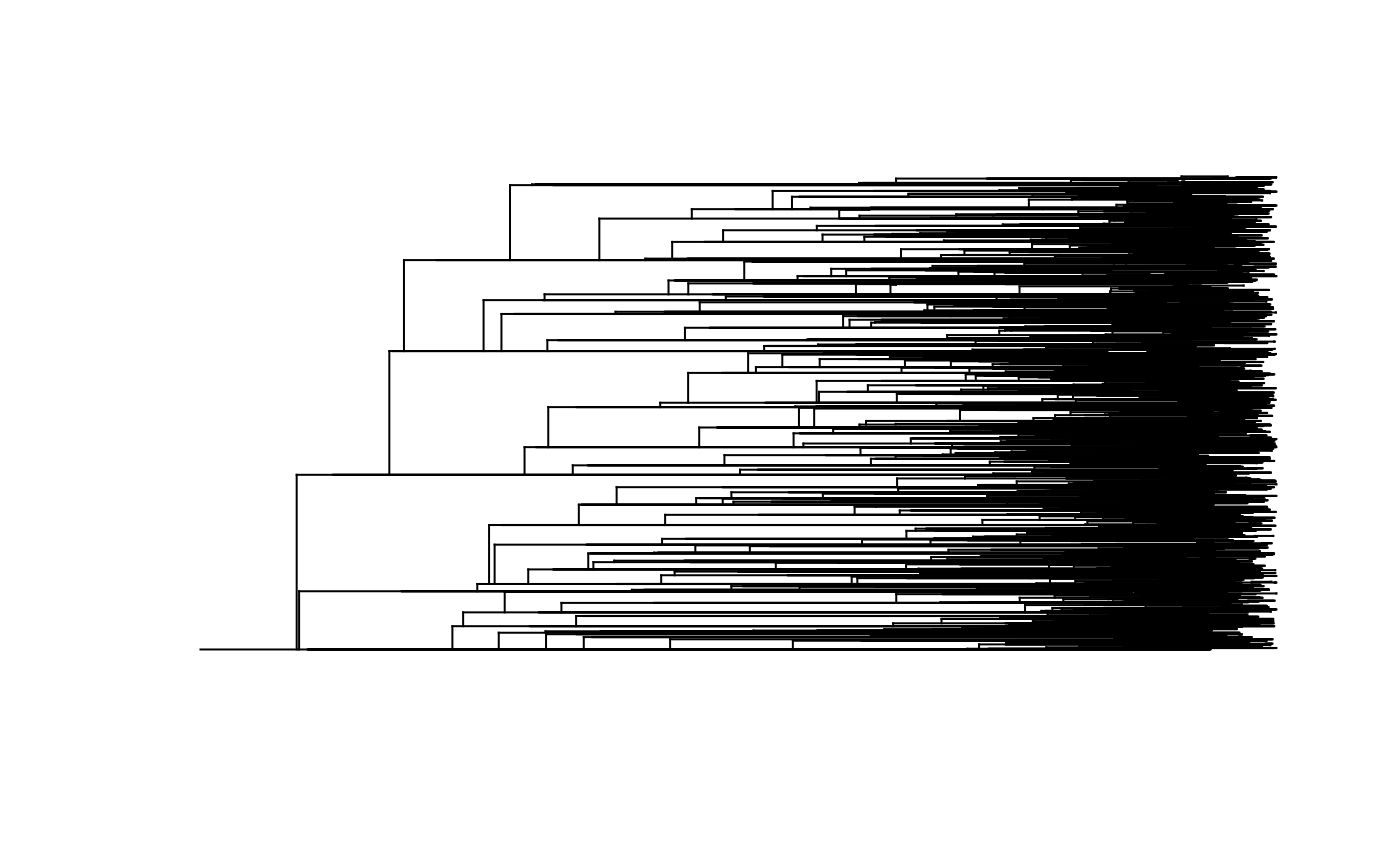
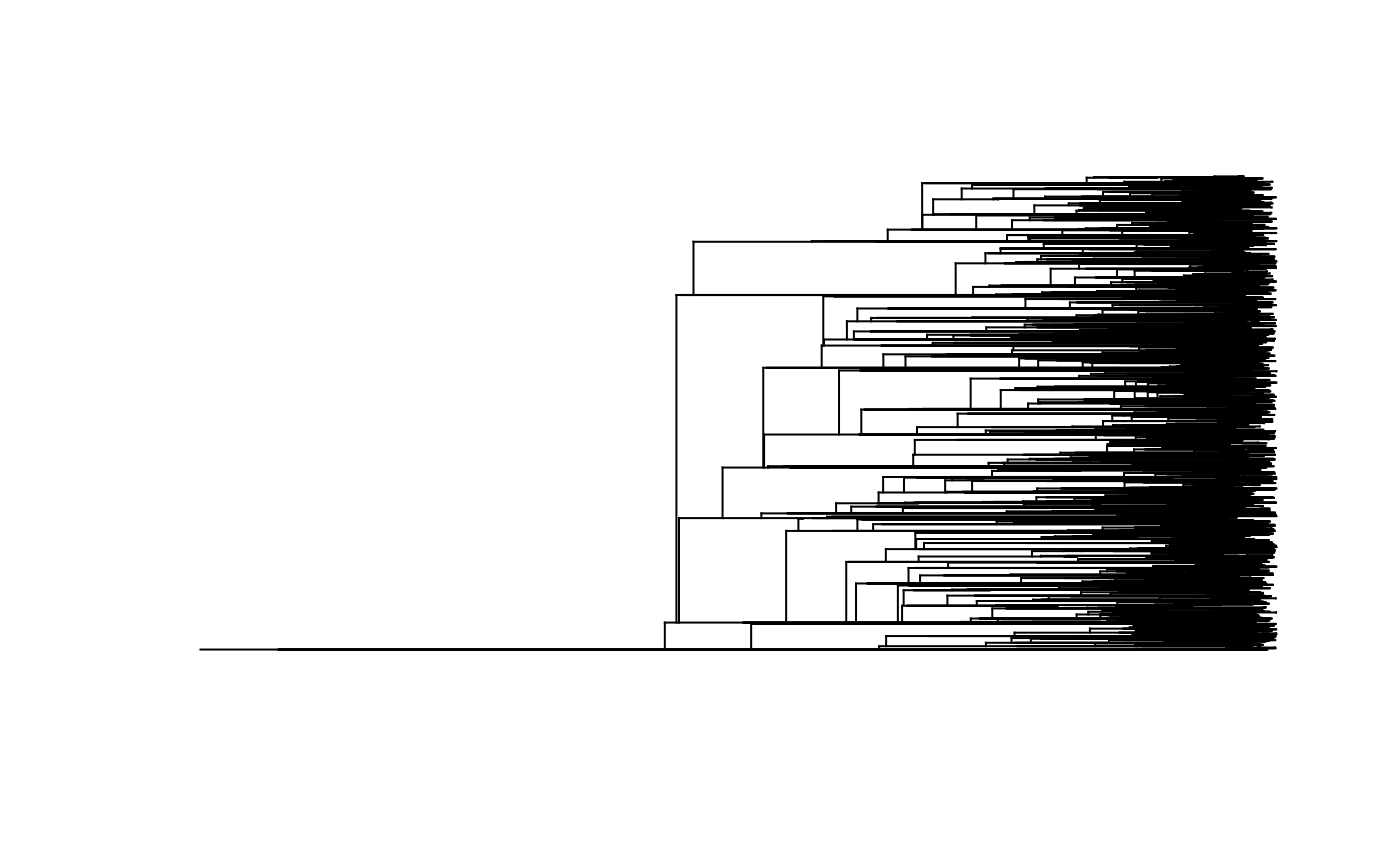
rendered

Changed region(s): [[0.215, 0.1873, 0.9214, 0.7491], [0.1843, 0.6867, 0.215, 0.7491], [0.2764, 0.4058, 0.3071, 0.437]]

diff --git a/docs/articles/Baruwal_R_Package_Tutorial.html b/docs/articles/Baruwal_R_Package_Tutorial.html
@@ -87,11 +87,11 @@
 <p>You might need to install these packages:</p>
 <div class="sourceCode" id="cb1"><pre class="downlit sourceCode r">
 <code class="sourceCode R"><span class="fu"><a href="https://rdrr.io/r/utils/install.packages.html" class="external-link">install.packages</a></span><span class="op">(</span><span class="st">"tidyverse"</span><span class="op">)</span></code></pre></div>
-<pre><code><span class="co">## Installing package into '/tmp/RtmpUgYTjQ/temp_libpath663776a2c40a'</span>
+<pre><code><span class="co">## Installing package into '/tmp/RtmpUgYTjQ/temp_libpath6637505c27da'</span>
 <span class="co">## (as 'lib' is unspecified)</span></code></pre>
 <div class="sourceCode" id="cb3"><pre class="downlit sourceCode r">
 <code class="sourceCode R"><span class="fu"><a href="https://rdrr.io/r/utils/install.packages.html" class="external-link">install.packages</a></span><span class="op">(</span><span class="st">"ggplot2"</span><span class="op">)</span></code></pre></div>
-<pre><code><span class="co">## Installing package into '/tmp/RtmpUgYTjQ/temp_libpath663776a2c40a'</span>
+<pre><code><span class="co">## Installing package into '/tmp/RtmpUgYTjQ/temp_libpath6637505c27da'</span>
 <span class="co">## (as 'lib' is unspecified)</span></code></pre>
 <div class="sourceCode" id="cb5"><pre class="downlit sourceCode r">
 <code class="sourceCode R"><span class="kw"><a href="https://rdrr.io/r/base/library.html" class="external-link">library</a></span><span class="op">(</span><span class="va"><a href="https://tidyverse.tidyverse.org" class="external-link">tidyverse</a></span><span class="op">)</span></code></pre></div>
@@ -107,7 +107,7 @@
 <code class="sourceCode R"><span class="kw"><a href="https://rdrr.io/r/base/library.html" class="external-link">library</a></span><span class="op">(</span><span class="va"><a href="https://ggplot2.tidyverse.org" class="external-link">ggplot2</a></span><span class="op">)</span></code></pre></div>
 <div class="sourceCode" id="cb10"><pre class="downlit sourceCode r">
 <code class="sourceCode R"><span class="fu"><a href="https://rdrr.io/r/utils/install.packages.html" class="external-link">install.packages</a></span><span class="op">(</span><span class="st">"devtools"</span><span class="op">)</span></code></pre></div>
-<pre><code><span class="co">## Installing package into '/tmp/RtmpUgYTjQ/temp_libpath663776a2c40a'</span>
+<pre><code><span class="co">## Installing package into '/tmp/RtmpUgYTjQ/temp_libpath6637505c27da'</span>
 <span class="co">## (as 'lib' is unspecified)</span></code></pre>
 <div class="sourceCode" id="cb12"><pre class="downlit sourceCode r">
 <code class="sourceCode R"><span class="kw"><a href="https://rdrr.io/r/base/library.html" class="external-link">library</a></span><span class="op">(</span><span class="va"><a href="https://devtools.r-lib.org/" class="external-link">devtools</a></span><span class="op">)</span></code></pre></div>
@@ -115,7 +115,7 @@
 <p>You need to install FossilSim R package for this package to run. # FossilSim is used for simulating trees directly from a fossilized-birth death process using the sim.fbd function.</p>
 <div class="sourceCode" id="cb14"><pre class="downlit sourceCode r">
 <code class="sourceCode R"><span class="fu"><a href="https://rdrr.io/r/utils/install.packages.html" class="external-link">install.packages</a></span><span class="op">(</span><span class="st">"FossilSim"</span><span class="op">)</span></code></pre></div>
-<pre><code><span class="co">## Installing package into '/tmp/RtmpUgYTjQ/temp_libpath663776a2c40a'</span>
+<pre><code><span class="co">## Installing package into '/tmp/RtmpUgYTjQ/temp_libpath6637505c27da'</span>
 <span class="co">## (as 'lib' is unspecified)</span></code></pre>
 <div class="sourceCode" id="cb16"><pre class="downlit sourceCode r">
 <code class="sourceCode R"><span class="kw"><a href="https://rdrr.io/r/base/library.html" class="external-link">library</a></span><span class="op">(</span><span class="va">FossilSim</span><span class="op">)</span></code></pre></div>
@@ -125,9 +125,9 @@
 <pre><code><span class="co">## Using github PAT from envvar GITHUB_PAT</span></code></pre>
 <pre><code><span class="co">## Downloading GitHub repo simranbaru/R_Package_Baruwal@HEAD</span></code></pre>
 <pre><code>##   
-   checking for file ‘/tmp/RtmpL1XQbC/remotes7a7444584a62/simranbaru-R_package_Baruwal-26d5d0a/DESCRIPTION’ ...
+   checking for file ‘/tmp/RtmpGHIaVR/remotes7d1a310ef26c/simranbaru-R_package_Baruwal-7bc9f6b/DESCRIPTION’ ...
   
- [32m✓ [39m   [38;5;247mchecking for file ‘/tmp/RtmpL1XQbC/remotes7a7444584a62/simranbaru-R_package_Baruwal-26d5d0a/DESCRIPTION’ [39m [36m [39m
+ [32m✓ [39m   [38;5;247mchecking for file ‘/tmp/RtmpGHIaVR/remotes7d1a310ef26c/simranbaru-R_package_Baruwal-7bc9f6b/DESCRIPTION’ [39m [36m [39m
 ## 
   
  [38;5;247m─ [39m [38;5;247m   [39m [38;5;247mpreparing ‘BaruwalRPackage’: [39m [36m [39m
@@ -150,7 +150,7 @@
   
    
 ## </code></pre>
-<pre><code><span class="co">## Installing package into '/tmp/RtmpUgYTjQ/temp_libpath663776a2c40a'</span>
+<pre><code><span class="co">## Installing package into '/tmp/RtmpUgYTjQ/temp_libpath6637505c27da'</span>
 <span class="co">## (as 'lib' is unspecified)</span></code></pre>
 <div class="sourceCode" id="cb22"><pre class="downlit sourceCode r">
 <code class="sourceCode R"><span class="kw"><a href="https://rdrr.io/r/base/library.html" class="external-link">library</a></span><span class="op">(</span><span class="va">BaruwalRPackage</span><span class="op">)</span>
@@ -221,109 +221,46 @@
 <span class="op">}</span></code></pre></div>
 <pre><code><span class="co">## [[1]]</span>
 <span class="co">## </span>
-<span class="co">## Phylogenetic tree with 2752 tips and 2751 internal nodes.</span>
+<span class="co">## Phylogenetic tree with 2985 tips and 2984 internal nodes.</span>
 <span class="co">## </span>
 <span class="co">## Tip labels:</span>
-<span class="co">##   t371_4, t1002_1, t846_2, t651_3, t722_2, t479_1, ...</span>
+<span class="co">##   t1062_1, t601_5, t180_1, t161_1, t52_4, t823_3, ...</span>
 <span class="co">## </span>
 <span class="co">## Rooted; includes branch lengths.</span>
 <span class="co">## </span>
 <span class="co">## [[1]]</span>
 <span class="co">## </span>
-<span class="co">## Phylogenetic tree with 1355 tips and 1354 internal nodes.</span>
+<span class="co">## Phylogenetic tree with 1286 tips and 1285 internal nodes.</span>
 <span class="co">## </span>
 <span class="co">## Tip labels:</span>
-<span class="co">##   t644_2, t808_4, t264_1, t228_2, t257_1, t355_2, ...</span>
+<span class="co">##   t588_1, t574_1, t958_1, t164_1, t505_1, t183_1, ...</span>
 <span class="co">## </span>
 <span class="co">## Rooted; includes branch lengths.</span>
 <span class="co">## </span>
 <span class="co">## [[1]]</span>
 <span class="co">## </span>
-<span class="co">## Phylogenetic tree with 378 tips and 377 internal nodes.</span>
+<span class="co">## Phylogenetic tree with 453 tips and 452 internal nodes.</span>
 <span class="co">## </span>
 <span class="co">## Tip labels:</span>
-<span class="co">##   t680_1, t460_1, t191_1, t440_1, t454_1, t214_1, ...</span>
+<span class="co">##   t555_1, t704_1, t487_1, t655_1, t170_1, t271_1, ...</span>
 <span class="co">## </span>
 <span class="co">## Rooted; includes branch lengths.</span>
 <span class="co">## </span>
 <span class="co">## [[1]]</span>
 <span class="co">## </span>
-<span class="co">## Phylogenetic tree with 126 tips and 125 internal nodes.</span>
+<span class="co">## Phylogenetic tree with 150 tips and 149 internal nodes.</span>
 <span class="co">## </span>
 <span class="co">## Tip labels:</span>
-<span class="co">##   t961_1, t187_1, t184_1, t5_1, t621_1, t889_1, ...</span>
+<span class="co">##   t965_1, t337_1, t193_1, t571_1, t334_1, t867_1, ...</span>
 <span class="co">## </span>
 <span class="co">## Rooted; includes branch lengths.</span>
 <span class="co">## </span>
 <span class="co">## [[1]]</span>
 <span class="co">## </span>
-<span class="co">## Phylogenetic tree with 23 tips and 22 internal nodes.</span>
+<span class="co">## Phylogenetic tree with 26 tips and 25 internal nodes.</span>
 <span class="co">## </span>
 <span class="co">## Tip labels:</span>
-<span class="co">##   t591_1, t442_1, t495_1, t737_1, t921_1, t447_1, ...</span>
-<span class="co">## </span>
-<span class="co">## Rooted; includes branch lengths.</span>
-<span class="co">## </span>
-<span class="co">## [[1]]</span>
-<span class="co">## </span>
-<span class="co">## Phylogenetic tree with 10 tips and 9 internal nodes.</span>
-<span class="co">## </span>
-<span class="co">## Tip labels:</span>
-<span class="co">##   t789_1, t642_1, t940_1, t311_1, t409_1, t240_1, ...</span>
-<span class="co">## </span>
-<span class="co">## Rooted; includes branch lengths.</span>
-<span class="co">## </span>
-<span class="co">## [[1]]</span>
-<span class="co">## </span>
-<span class="co">## Phylogenetic tree with 14 tips and 13 internal nodes.</span>
-<span class="co">## </span>
-<span class="co">## Tip labels:</span>
-<span class="co">##   t990_1, t851_1, t653_1, t465_1, t880_1, t29_1, ...</span>
-<span class="co">## </span>
-<span class="co">## Rooted; includes branch lengths.</span>
-<span class="co">## </span>
-<span class="co">## [[1]]</span>
-<span class="co">## </span>
-<span class="co">## Phylogenetic tree with 12 tips and 11 internal nodes.</span>
-<span class="co">## </span>
-<span class="co">## Tip labels:</span>
-<span class="co">##   t501_1, t681_1, t131_1, t957_1, t690_1, t555_1, ...</span>
-<span class="co">## </span>
-<span class="co">## Rooted; includes branch lengths.</span>
-<span class="co">## </span>
-<span class="co">## [[1]]</span>
-<span class="co">## </span>
-<span class="co">## Phylogenetic tree with 10 tips and 9 internal nodes.</span>
-<span class="co">## </span>
-<span class="co">## Tip labels:</span>
-<span class="co">##   t27_1, t126_1, t911_1, t1_1, t837_1, t637_1, ...</span>
-<span class="co">## </span>
-<span class="co">## Rooted; includes branch lengths.</span>
-<span class="co">## </span>
-<span class="co">## [[1]]</span>
-<span class="co">## </span>
-<span class="co">## Phylogenetic tree with 15 tips and 14 internal nodes.</span>
-<span class="co">## </span>
-<span class="co">## Tip labels:</span>
-<span class="co">##   t443_1, t413_1, t902_1, t614_1, t664_1, t191_1, ...</span>
-<span class="co">## </span>
-<span class="co">## Rooted; includes branch lengths.</span>
-<span class="co">## </span>
-<span class="co">## [[1]]</span>
-<span class="co">## </span>
-<span class="co">## Phylogenetic tree with 10 tips and 9 internal nodes.</span>
-<span class="co">## </span>
-<span class="co">## Tip labels:</span>
-<span class="co">##   t884_1, t557_1, t681_1, t310_1, t185_1, t686_1, ...</span>
-<span class="co">## </span>
-<span class="co">## Rooted; includes branch lengths.</span>
-<span class="co">## </span>
-<span class="co">## [[1]]</span>
-<span class="co">## </span>
-<span class="co">## Phylogenetic tree with 11 tips and 10 internal nodes.</span>
-<span class="co">## </span>
-<span class="co">## Tip labels:</span>
-<span class="co">##   t457_1, t369_1, t10_1, t7_1, t816_1, t471_1, ...</span>
+<span class="co">##   t26_1, t630_1, t651_1, t133_1, t172_1, t275_1, ...</span>
 <span class="co">## </span>
 <span class="co">## Rooted; includes branch lengths.</span>
 <span class="co">## </span>
@@ -332,52 +269,7 @@
 <span class="co">## Phylogenetic tree with 13 tips and 12 internal nodes.</span>
 <span class="co">## </span>
 <span class="co">## Tip labels:</span>
-<span class="co">##   t638_1, t970_1, t906_1, t984_1, t47_1, t835_1, ...</span>
-<span class="co">## </span>
-<span class="co">## Rooted; includes branch lengths.</span>
-<span class="co">## </span>
-<span class="co">## [[1]]</span>
-<span class="co">## </span>
-<span class="co">## Phylogenetic tree with 12 tips and 11 internal nodes.</span>
-<span class="co">## </span>
-<span class="co">## Tip labels:</span>
-<span class="co">##   t202_1, t753_1, t53_1, t78_1, t428_1, t116_1, ...</span>
-<span class="co">## </span>
-<span class="co">## Rooted; includes branch lengths.</span>
-<span class="co">## </span>
-<span class="co">## [[1]]</span>
-<span class="co">## </span>
-<span class="co">## Phylogenetic tree with 11 tips and 10 internal nodes.</span>
-<span class="co">## </span>
-<span class="co">## Tip labels:</span>
-<span class="co">##   t834_1, t677_1, t969_1, t178_1, t227_1, t16_1, ...</span>
-<span class="co">## </span>
-<span class="co">## Rooted; includes branch lengths.</span>
-<span class="co">## </span>
-<span class="co">## [[1]]</span>
-<span class="co">## </span>
-<span class="co">## Phylogenetic tree with 11 tips and 10 internal nodes.</span>
-<span class="co">## </span>
-<span class="co">## Tip labels:</span>
-<span class="co">##   t626_1, t1013_1, t731_1, t161_1, t899_1, t1075_1, ...</span>
-<span class="co">## </span>
-<span class="co">## Rooted; includes branch lengths.</span>
-<span class="co">## </span>
-<span class="co">## [[1]]</span>
-<span class="co">## </span>
-<span class="co">## Phylogenetic tree with 14 tips and 13 internal nodes.</span>
-<span class="co">## </span>
-<span class="co">## Tip labels:</span>
-<span class="co">##   t196_1, t520_1, t157_1, t765_1, t56_1, t175_1, ...</span>
-<span class="co">## </span>
-<span class="co">## Rooted; includes branch lengths.</span>
-<span class="co">## </span>
-<span class="co">## [[1]]</span>
-<span class="co">## </span>
-<span class="co">## Phylogenetic tree with 12 tips and 11 internal nodes.</span>
-<span class="co">## </span>
-<span class="co">## Tip labels:</span>
-<span class="co">##   t137_1, t181_1, t708_1, t437_1, t13_1, t867_1, ...</span>
+<span class="co">##   t12_1, t844_1, t590_1, t977_1, t784_1, t623_1, ...</span>
 <span class="co">## </span>
 <span class="co">## Rooted; includes branch lengths.</span>
 <span class="co">## </span>
@@ -386,7 +278,70 @@
 <span class="co">## Phylogenetic tree with 13 tips and 12 internal nodes.</span>
 <span class="co">## </span>
 <span class="co">## Tip labels:</span>
-<span class="co">##   t291_1, t787_1, t950_1, t241_1, t182_1, t1040_1, ...</span>
+<span class="co">##   t993_1, t56_1, t163_1, t140_1, t921_1, t516_1, ...</span>
+<span class="co">## </span>
+<span class="co">## Rooted; includes branch lengths.</span>
+<span class="co">## </span>
+<span class="co">## [[1]]</span>
+<span class="co">## </span>
+<span class="co">## Phylogenetic tree with 12 tips and 11 internal nodes.</span>
+<span class="co">## </span>
+<span class="co">## Tip labels:</span>
+<span class="co">##   t527_1, t380_1, t650_1, t549_1, t584_1, t551_1, ...</span>
+<span class="co">## </span>
+<span class="co">## Rooted; includes branch lengths.</span>
+<span class="co">## </span>
+<span class="co">## [[1]]</span>
+<span class="co">## </span>
+<span class="co">## Phylogenetic tree with 13 tips and 12 internal nodes.</span>
+<span class="co">## </span>
+<span class="co">## Tip labels:</span>
+<span class="co">##   t317_1, t779_1, t388_1, t691_1, t127_1, t185_1, ...</span>
+<span class="co">## </span>
+<span class="co">## Rooted; includes branch lengths.</span>
+<span class="co">## </span>
+<span class="co">## [[1]]</span>
+<span class="co">## </span>
+<span class="co">## Phylogenetic tree with 12 tips and 11 internal nodes.</span>
+<span class="co">## </span>
+<span class="co">## Tip labels:</span>
+<span class="co">##   t17_1, t826_1, t388_1, t878_1, t408_1, t327_1, ...</span>
+<span class="co">## </span>
+<span class="co">## Rooted; includes branch lengths.</span>
+<span class="co">## </span>
+<span class="co">## [[1]]</span>
+<span class="co">## </span>
+<span class="co">## Phylogenetic tree with 13 tips and 12 internal nodes.</span>
+<span class="co">## </span>
+<span class="co">## Tip labels:</span>
+<span class="co">##   t505_1, t214_1, t912_1, t241_1, t881_1, t325_1, ...</span>
+<span class="co">## </span>
+<span class="co">## Rooted; includes branch lengths.</span>
+<span class="co">## </span>
+<span class="co">## [[1]]</span>
+<span class="co">## </span>
+<span class="co">## Phylogenetic tree with 12 tips and 11 internal nodes.</span>
+<span class="co">## </span>
+<span class="co">## Tip labels:</span>
+<span class="co">##   t373_1, t993_1, t431_1, t513_1, t716_1, t43_1, ...</span>
+<span class="co">## </span>
+<span class="co">## Rooted; includes branch lengths.</span>
+<span class="co">## </span>
+<span class="co">## [[1]]</span>
+<span class="co">## </span>
+<span class="co">## Phylogenetic tree with 12 tips and 11 internal nodes.</span>
+<span class="co">## </span>
+<span class="co">## Tip labels:</span>
+<span class="co">##   t473_1, t765_1, t314_1, t753_1, t367_1, t764_1, ...</span>
+<span class="co">## </span>
+<span class="co">## Rooted; includes branch lengths.</span>
+<span class="co">## </span>
+<span class="co">## [[1]]</span>
+<span class="co">## </span>
+<span class="co">## Phylogenetic tree with 13 tips and 12 internal nodes.</span>
+<span class="co">## </span>
+<span class="co">## Tip labels:</span>
+<span class="co">##   t1037_1, t188_1, t520_1, t631_1, t498_1, t150_1, ...</span>
 <span class="co">## </span>
 <span class="co">## Rooted; includes branch lengths.</span>
 <span class="co">## </span>
@@ -395,7 +350,52 @@
 <span class="co">## Phylogenetic tree with 10 tips and 9 internal nodes.</span>
 <span class="co">## </span>
 <span class="co">## Tip labels:</span>
-<span class="co">##   t55_1, t256_1, t277_1, t237_1, t561_1, t894_1, ...</span>
+<span class="co">##   t899_1, t582_1, t886_1, t919_1, t975_1, t95_1, ...</span>
+<span class="co">## </span>
+<span class="co">## Rooted; includes branch lengths.</span>
+<span class="co">## </span>
+<span class="co">## [[1]]</span>
+<span class="co">## </span>
+<span class="co">## Phylogenetic tree with 12 tips and 11 internal nodes.</span>
+<span class="co">## </span>
+<span class="co">## Tip labels:</span>
+<span class="co">##   t29_1, t998_1, t96_1, t1034_1, t856_1, t690_1, ...</span>
+<span class="co">## </span>
+<span class="co">## Rooted; includes branch lengths.</span>
+<span class="co">## </span>
+<span class="co">## [[1]]</span>
+<span class="co">## </span>
+<span class="co">## Phylogenetic tree with 13 tips and 12 internal nodes.</span>
+<span class="co">## </span>
+<span class="co">## Tip labels:</span>
+<span class="co">##   t858_1, t998_1, t876_1, t32_1, t660_1, t341_1, ...</span>
+<span class="co">## </span>
+<span class="co">## Rooted; includes branch lengths.</span>
+<span class="co">## </span>
+<span class="co">## [[1]]</span>
+<span class="co">## </span>
+<span class="co">## Phylogenetic tree with 10 tips and 9 internal nodes.</span>
+<span class="co">## </span>
+<span class="co">## Tip labels:</span>
+<span class="co">##   t701_1, t177_1, t496_1, t505_1, t800_1, t559_1, ...</span>
+<span class="co">## </span>
+<span class="co">## Rooted; includes branch lengths.</span>
+<span class="co">## </span>
+<span class="co">## [[1]]</span>
+<span class="co">## </span>
+<span class="co">## Phylogenetic tree with 10 tips and 9 internal nodes.</span>
+<span class="co">## </span>
+<span class="co">## Tip labels:</span>
+<span class="co">##   t792_1, t627_1, t622_1, t1010_1, t495_1, t960_1, ...</span>
+<span class="co">## </span>
+<span class="co">## Rooted; includes branch lengths.</span>
+<span class="co">## </span>
+<span class="co">## [[1]]</span>
+<span class="co">## </span>
+<span class="co">## Phylogenetic tree with 10 tips and 9 internal nodes.</span>
+<span class="co">## </span>
+<span class="co">## Tip labels:</span>
+<span class="co">##   t271_1, t943_1, t37_1, t367_1, t654_1, t32_1, ...</span>
 <span class="co">## </span>
 <span class="co">## Rooted; includes branch lengths.</span></code></pre>
 <p>In the above code we have created a loop using ‘while’ so that we do not need to enter the values manually. Then we have created the variable tree which is a vector to store our data from simulation.</p>
@@ -404,7 +404,7 @@
 <p>For Example:</p>
 <div class="sourceCode" id="cb34"><pre class="downlit sourceCode r">
 <code class="sourceCode R"><span class="va">trees</span><span class="op">[[</span><span class="fl">1</span><span class="op">]</span><span class="op">]</span><span class="op">$</span><span class="va">root.edge</span></code></pre></div>
-<pre><code><span class="co">## [1] 28.18684</span></code></pre>
+<pre><code><span class="co">## [1] 38.80664</span></code></pre>
 <p>It returns the simulated value from first tree simulated. We can do the same for other 19.</p>
 <p>If we want to create an object to store the simulated data, we can create a for loop which collects the data at once for all 20 trees.</p>
 <div class="sourceCode" id="cb36"><pre class="downlit sourceCode r">
@@ -454,7 +454,7 @@
 <p>This function calculate the difference between the emperical test statistic value and the median of simulated test statistic divided by the standard deviation of simulated test statistic. It shows how many standard deviations away from the median is the observed value.</p>
 <div class="sourceCode" id="cb43"><pre class="downlit sourceCode r">
 <code class="sourceCode R"><span class="fu"><a href="../reference/effect_size.html">effect_size</a></span><span class="op">(</span>datasdf <span class="op">=</span> <span class="va">datas</span><span class="op">)</span></code></pre></div>
-<pre><code><span class="co">## [1] 0.9637098</span></code></pre>
+<pre><code><span class="co">## [1] 0.9148563</span></code></pre>
 </div>
   </div>
 
